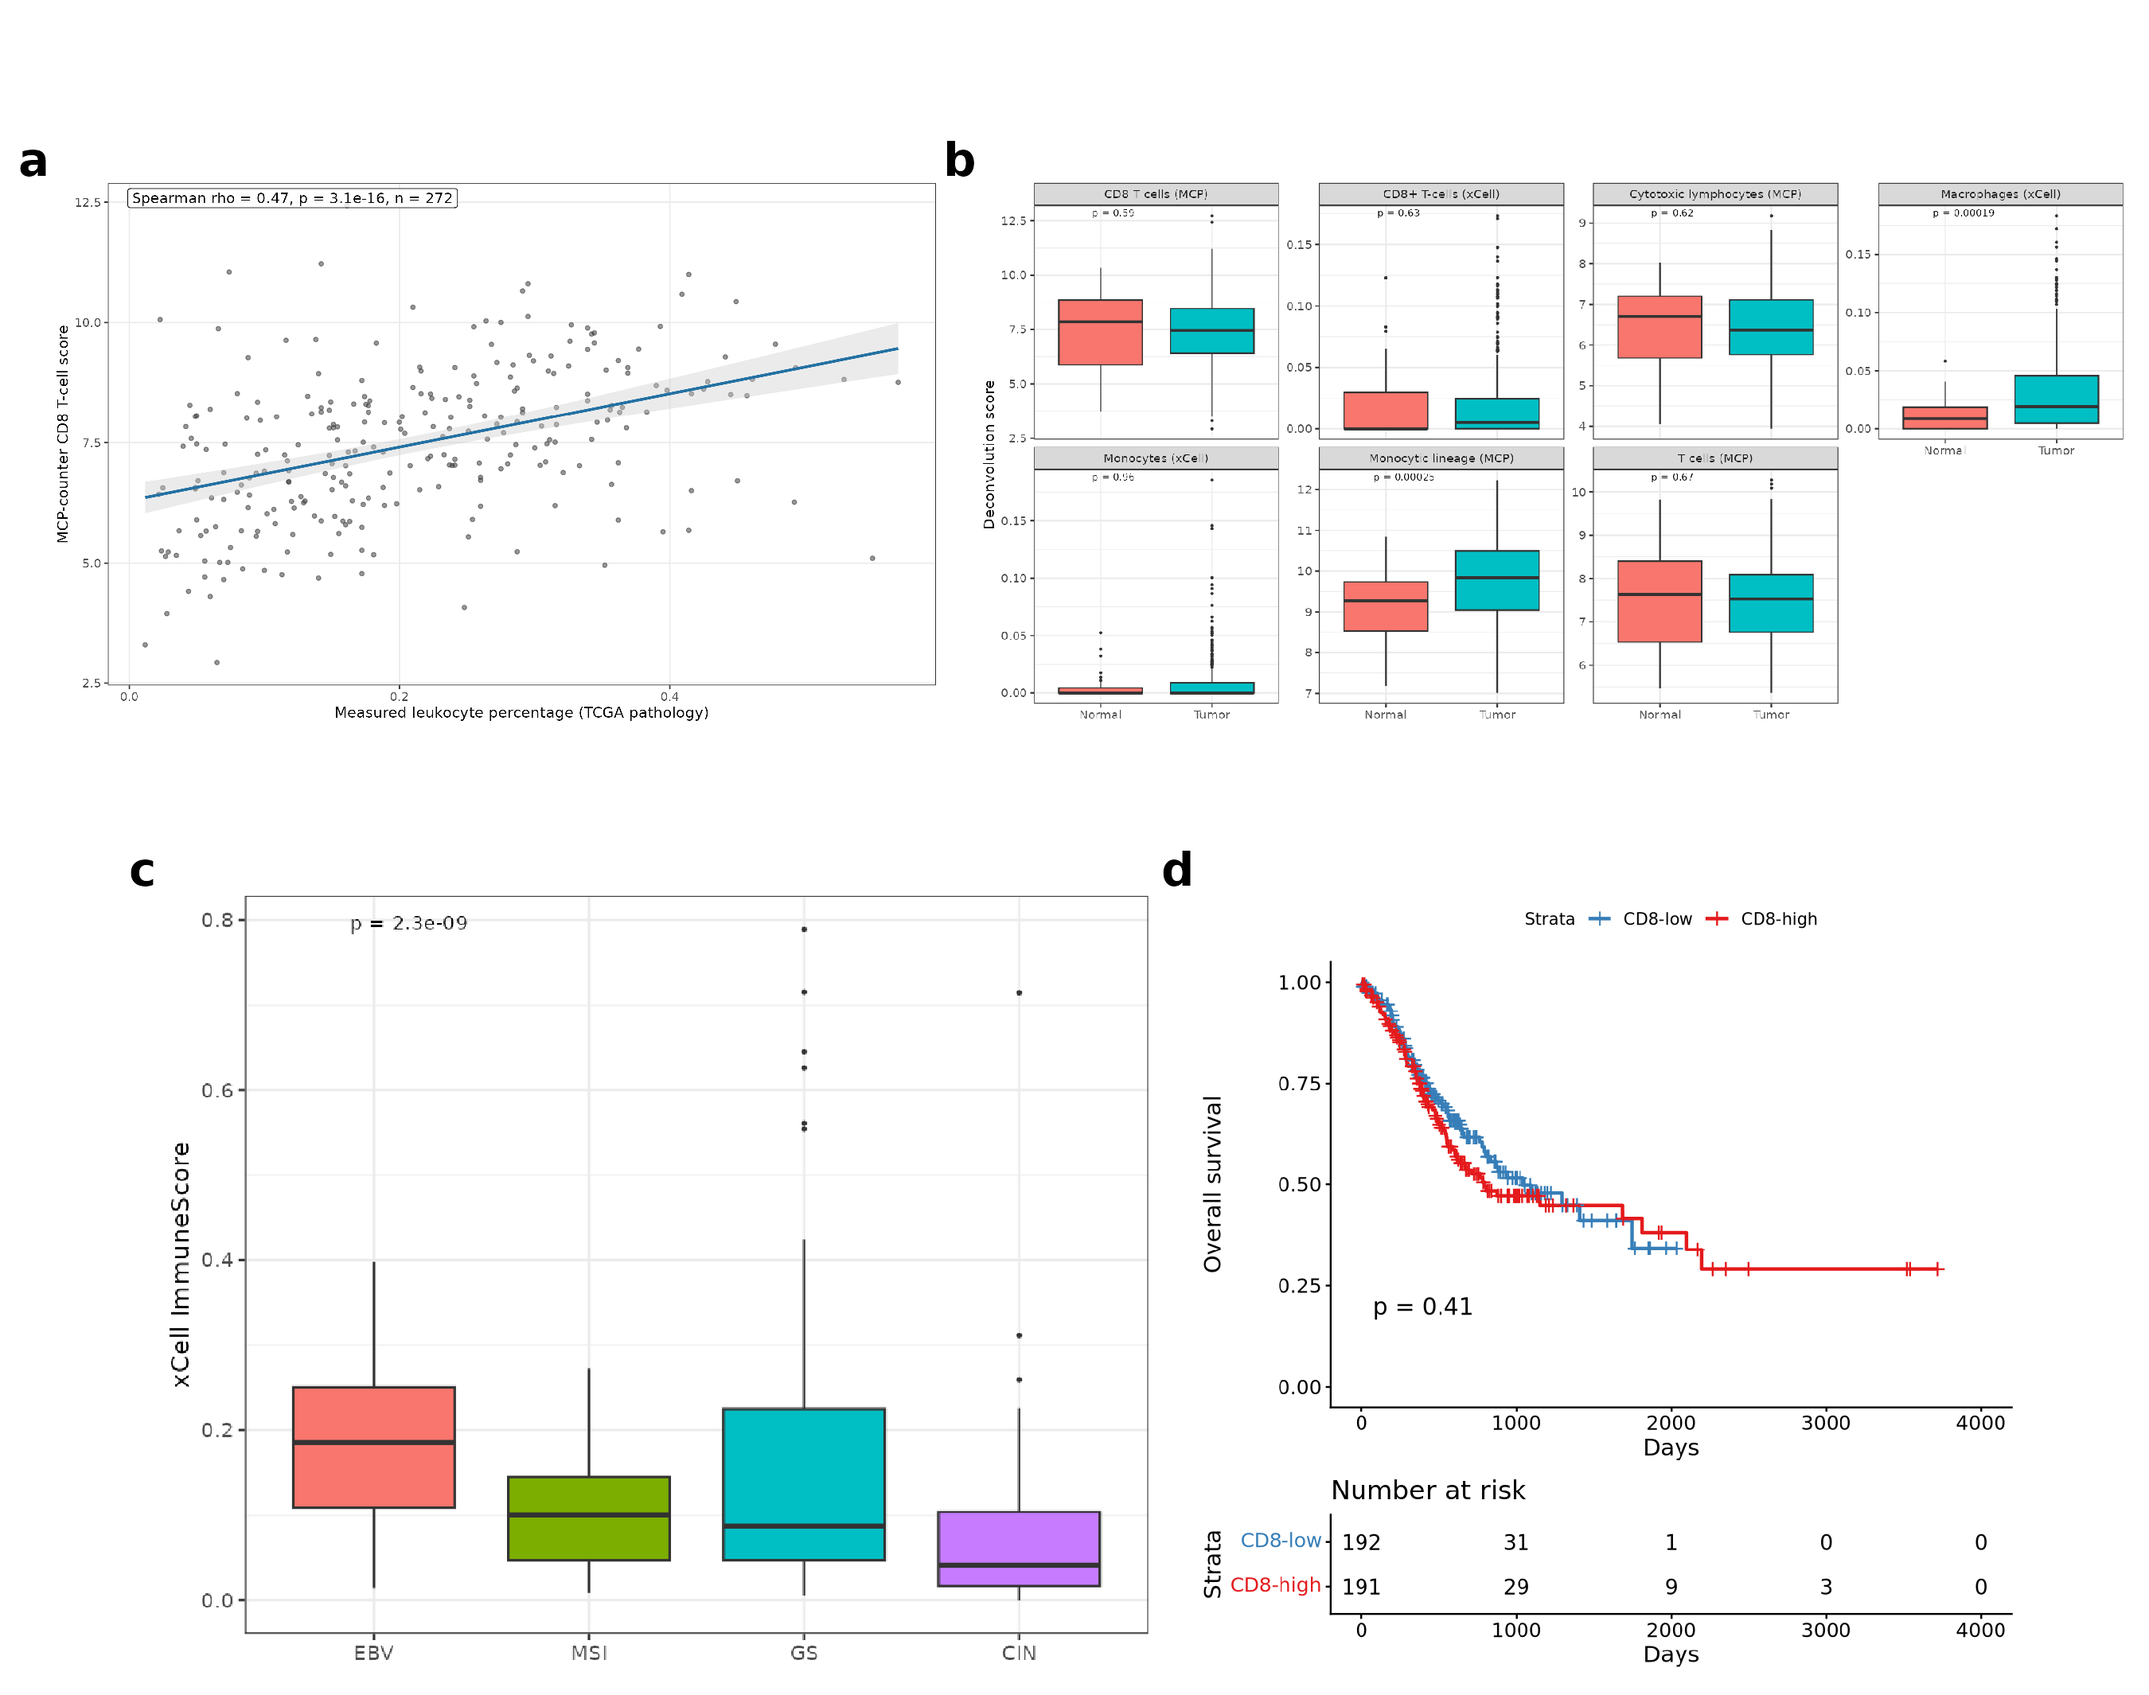
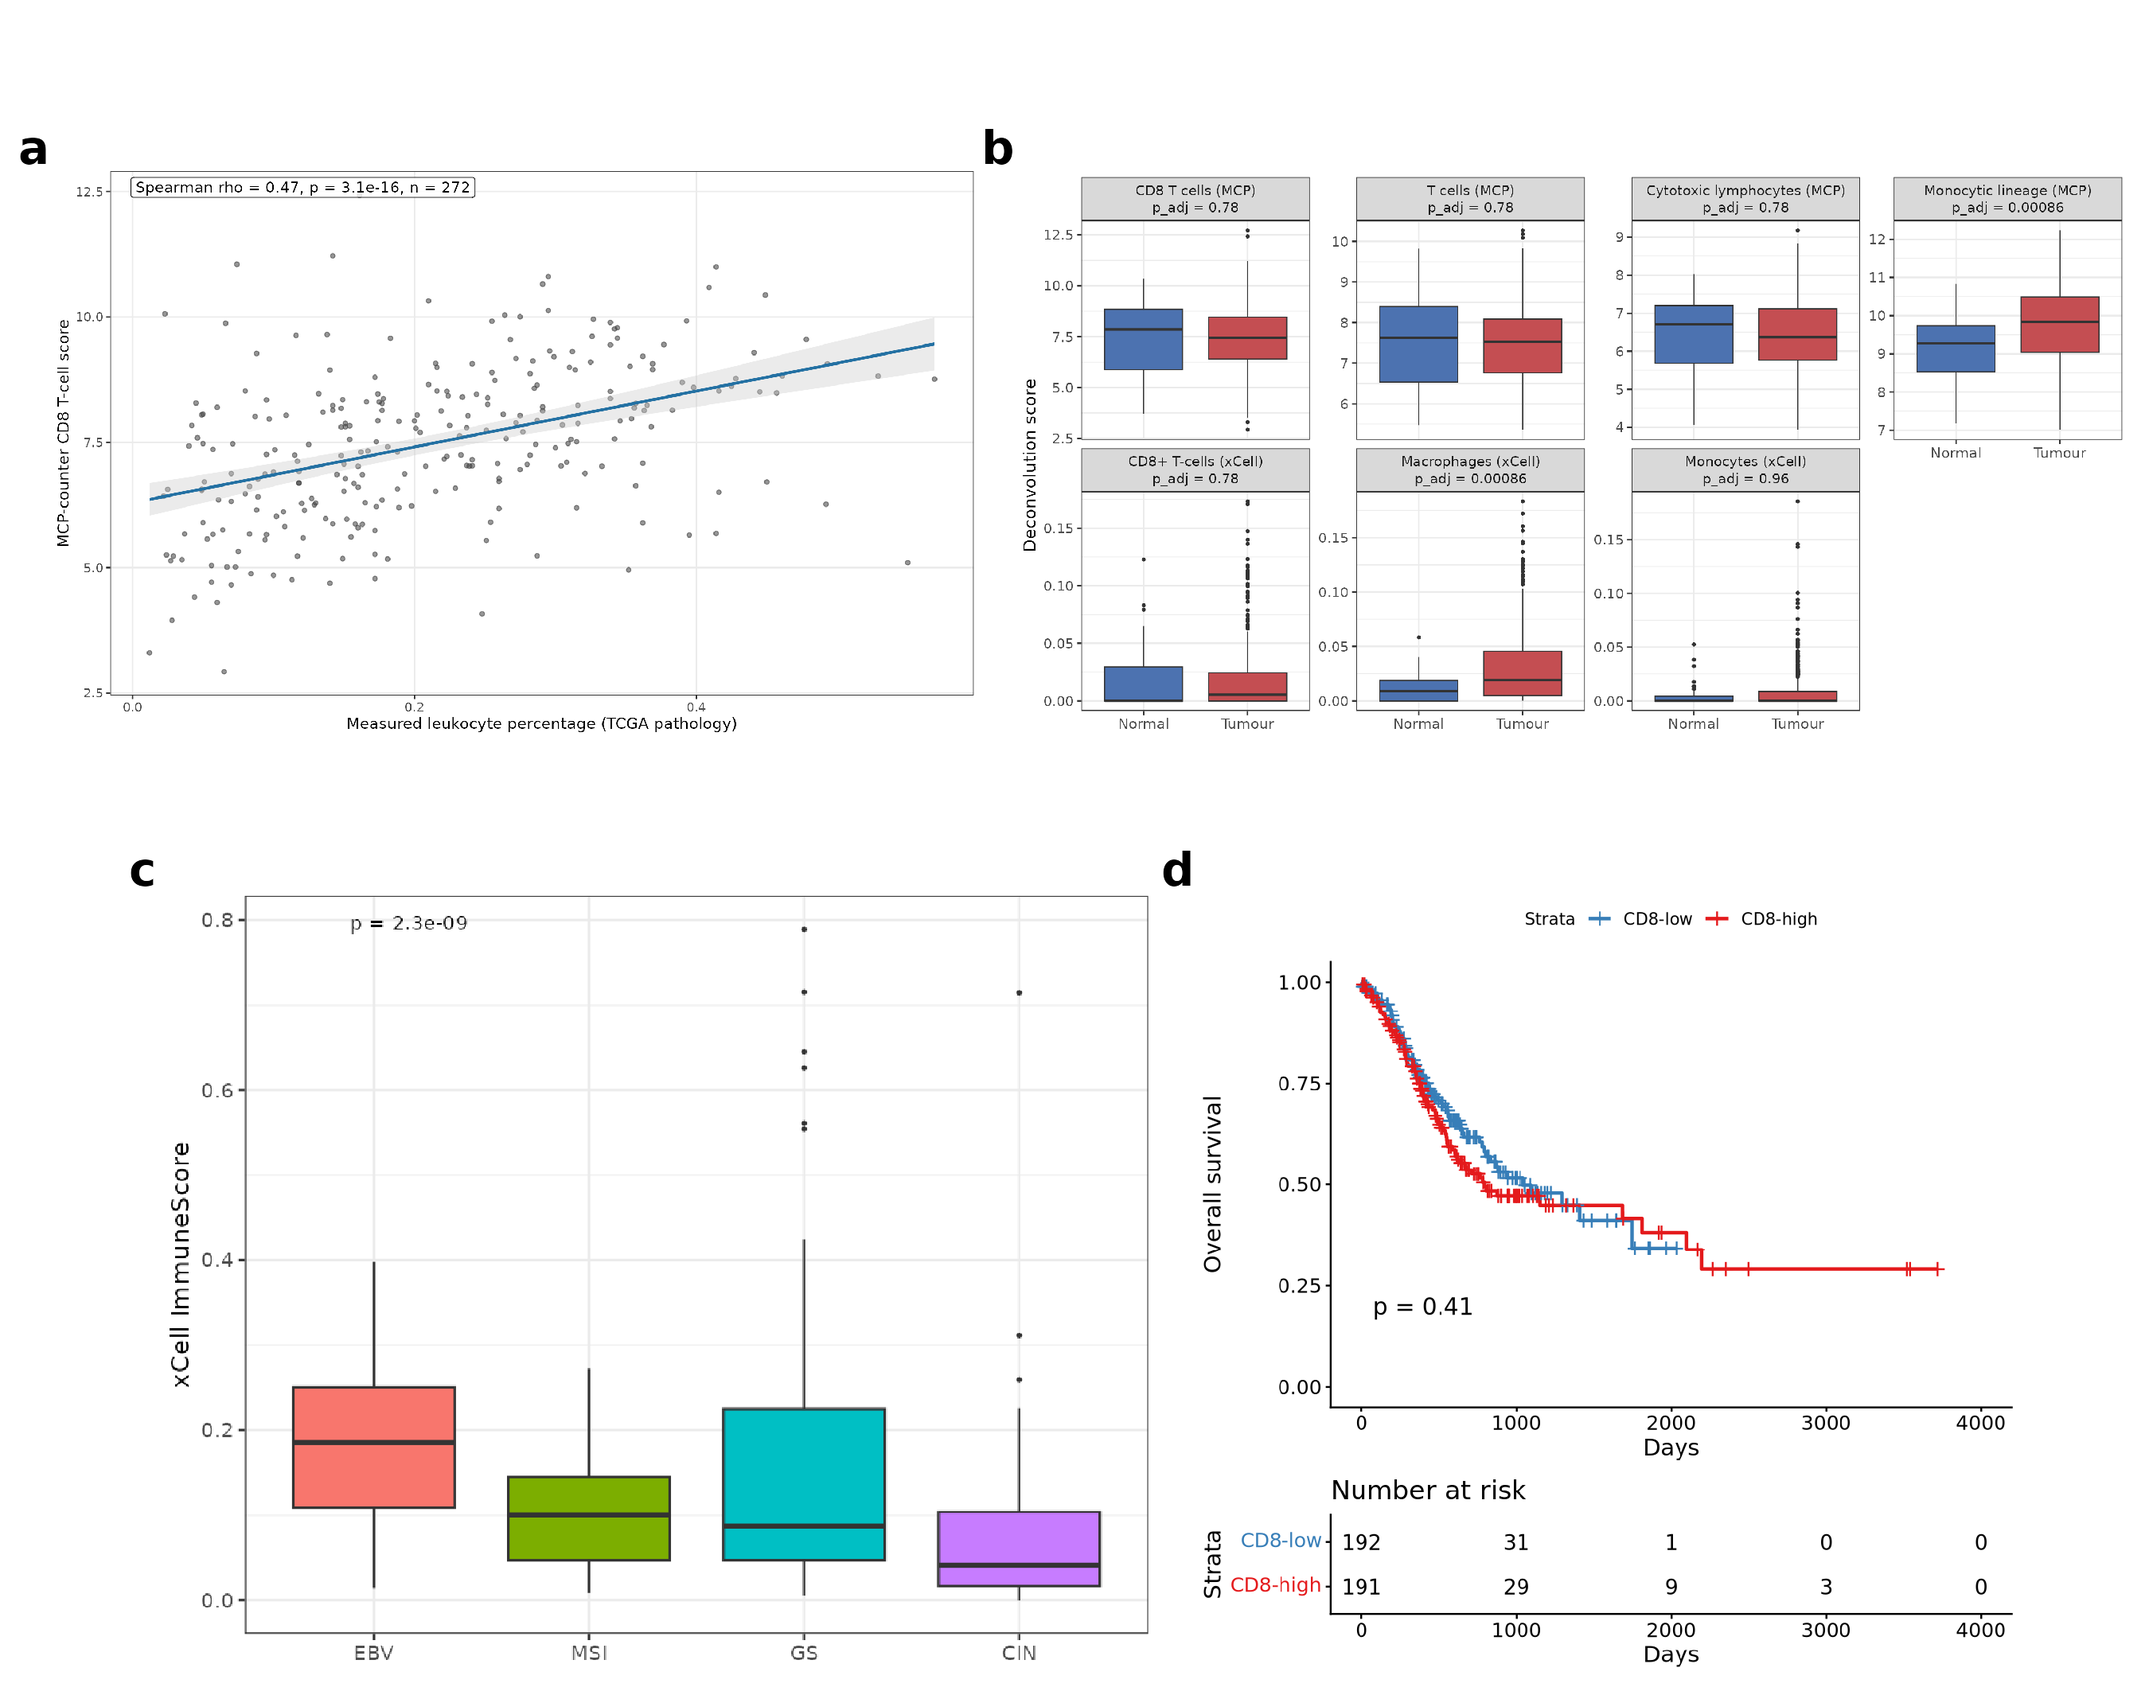
Rebuild S8 panel (b) from the committed score table (7 facets were illegible at montage scale with a clipped 'Norma' tick); correct README's false claim that figures are not embedded; re-split the submission package so it carries the corrected S8(a) caption and rebuilt figures; add split-staleness a

diff --git a/analysis/check_paper_integrity.py b/analysis/check_paper_integrity.py
@@ -22,6 +22,38 @@ if "most immune-infiltrated" in T:
     fail.append("pre-correction EBV/MSI ranking wording present")
 if "StromaScore" in T:
     fail.append("phantom StromaScore facet referenced")
+
+# Split-package consistency: the section files and their .docx are generated from
+# PAPER.md, so a PAPER.md edit that is not re-split ships a stale deliverable.
+SPLIT = "submission_package/split_manuscript"
+if os.path.isdir(SPLIT):
+    import subprocess
+    src_mtime = os.path.getmtime("PAPER.md")
+    for g in sorted(os.listdir(SPLIT)):
+        if re.match(r'^\d\d_.*\.(md|docx)$', g):
+            if os.path.getmtime(os.path.join(SPLIT, g)) < src_mtime - 1:
+                fail.append(f"{g} is older than PAPER.md - re-split the package")
+    rm = os.path.join(SPLIT, "README.md")
+    if os.path.exists(rm) and "referenced, not embedded" in open(rm).read():
+        fail.append("README claims figures are not embedded, but they are")
+
+# Interior legibility: edge-ink and aspect tests cannot see a panel whose text is
+# too small or clipped inside the canvas (this missed an illegible 7-facet panel
+# and a "Norma" x-tick). Flag any embedded figure whose smallest text-like ink
+# feature falls below a usable height at print scale.
+try:
+    import numpy as np
+    from PIL import Image
+    for lab, p in re.findall(r'!\[((?:Supplementary )?Figure [^\]]+)\]\(([^)]+)\)', T):
+        if not os.path.exists(p):
+            continue
+        im = Image.open(p)
+        w, h = im.size
+        # a figure wider than ~3600 px carrying >6 sub-panels is a density risk
+        if w * h > 0 and min(w, h) < 700:
+            fail.append(f"{lab}: {w}x{h} too small for legible sub-panel text")
+except ImportError:
+    pass
 print("\n".join("FAIL: " + f for f in fail) if fail else
       f"OK  {n_sub} Results subsections, {n_main} main + {n_supp} supplementary embeds, all files present")
 sys.exit(1 if fail else 0)

diff --git a/submission_package/split_manuscript/10_Supplementary_Figures.md b/submission_package/split_manuscript/10_Supplementary_Figures.md
@@ -60,7 +60,7 @@ Files: `results/microbiome_biomarker/04a_DA_control_vs_GCN.csv`, `04b_DA_GCN_vs_
 
 Supplementary Figure S8. Immune infiltration with deconvolution validated against pathology.
 
-(a) Scatter plot of the deconvolution-derived T-cell score against the measured histological leukocyte fraction scored by a pathologist (Spearman rho = 0.67, P = 3.6 x 10-36), establishing that the expression-based estimates track true tissue composition.
+(a) Scatter plot of the deconvolution-derived CD8 T-cell score (MCP-counter) against the measured histological leukocyte percentage scored by a pathologist (Spearman rho = 0.47, P = 3.1 x 10-16, n = 272), establishing that the expression-based estimates track true tissue composition. The overall T-cell and ImmuneScore estimates correlate more strongly with the same measurement (rho = 0.67 and 0.65 respectively; Results section 3.3), consistent with the deconvolution capturing total immune burden better than a single lymphocyte subset.
 
 (b) Comparison of immune compartments between tumour and normal tissue. Enrichment is dominated by the macrophage and monocyte lineage, with no net gain in CD8-positive T cells.
 

diff --git a/submission_package/split_manuscript/README.md b/submission_package/split_manuscript/README.md
@@ -23,9 +23,12 @@ with identical content.
 - **Edit the `.docx` files** if you are working in Word; edit the `.md` files if you
   want the plain-text source. They are generated from the same content, so if you
   change one, the other will no longer match.
-- **Figures are referenced, not embedded, in the `.docx`.** Each legend names its
-  source file under `results/`. Submit the figures as separate files, which is what
-  most journals require anyway.
+- **Figures are embedded in the `.docx`.** `05_Results.docx` carries all eight main
+  figures and `10_Supplementary_Figures.docx` all eleven supplementary figures, so
+  each file reads as a self-contained document. Every legend also names its source
+  file under `results/`, because journals normally want the figures uploaded
+  separately at full resolution as well — the submission TIFFs are in
+  `submission_package/figures_tiff/` at 600 dpi.
 - **Placeholders.** `01_Title_Page` and `08_Declarations` contain fields marked
   `PLACEHOLDER` (author names and ORCIDs, corresponding author, funding, CRediT
   contributions, repository DOI). Fill these before submission.
